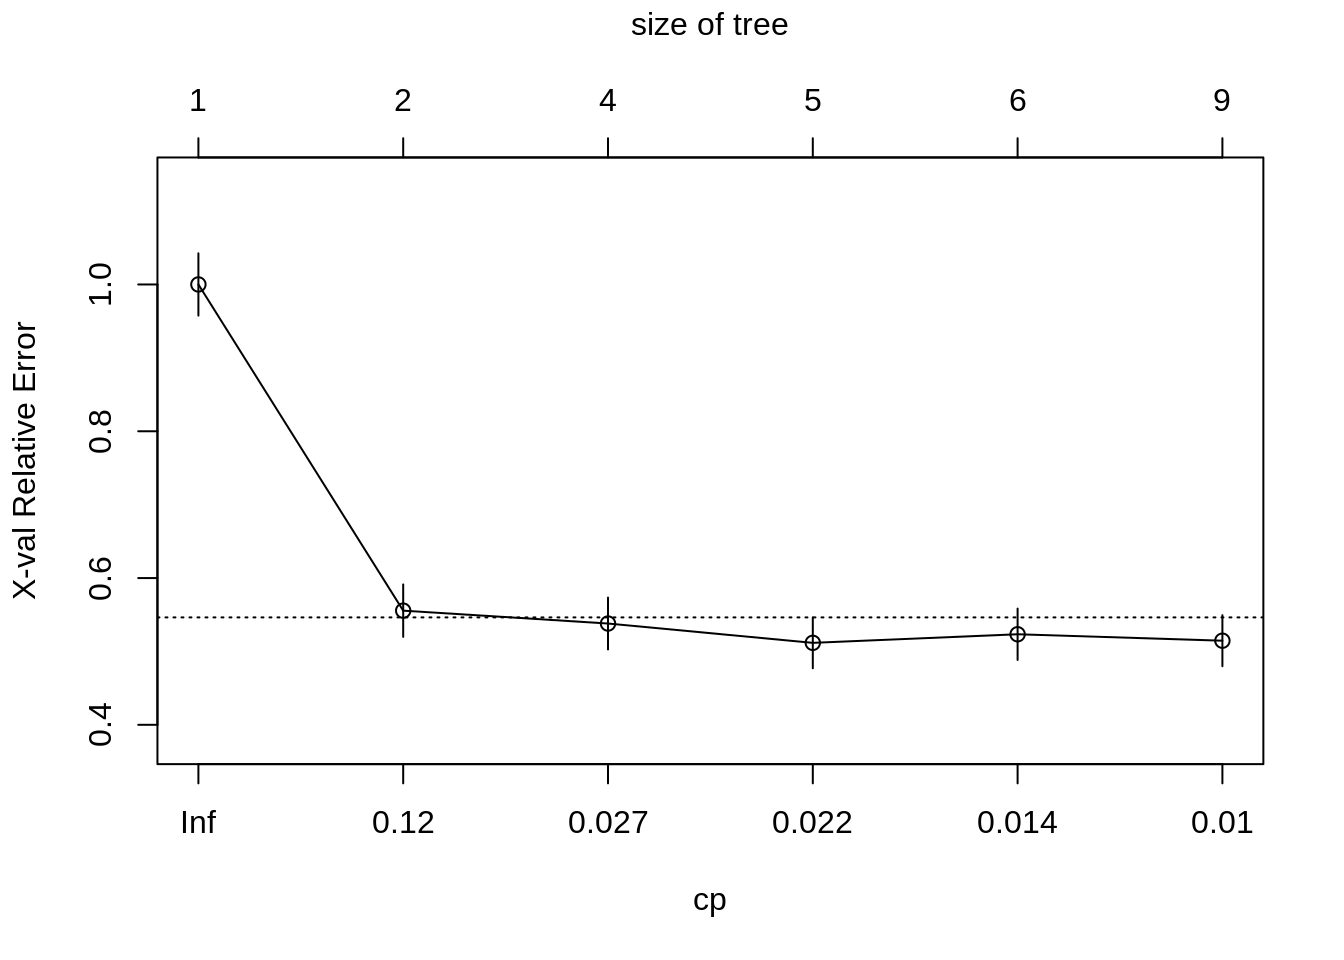
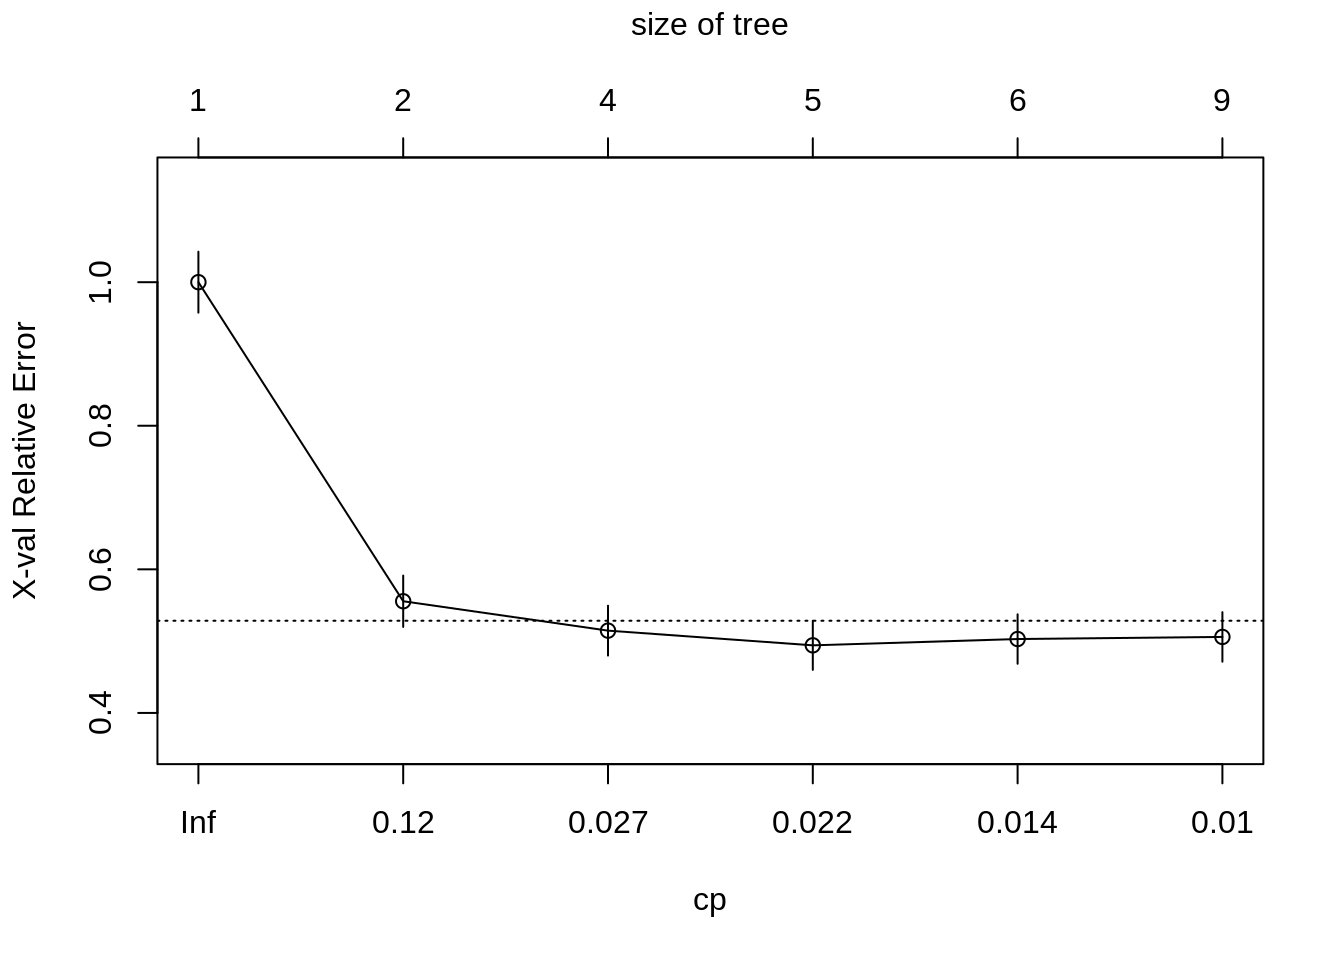
Deploy lebebr01/stat_thinking to github.com/lebebr01/stat_thinking.git:master

diff --git a/docs/classification.html b/docs/classification.html
@@ -324,10 +324,10 @@ titanic &lt;-<span class="st"> </span><span class="kw">bind_rows</span>(titanic_
 ##         CP nsplit rel error  xerror     xstd
 ## 1 0.444444      0   1.00000 1.00000 0.042446
 ## 2 0.030702      1   0.55556 0.55556 0.035750
-## 3 0.023392      3   0.49415 0.53801 0.035331
-## 4 0.020468      4   0.47076 0.51170 0.034675
-## 5 0.010234      5   0.45029 0.52339 0.034970
-## 6 0.010000      8   0.41813 0.51462 0.034749</code></pre>
+## 3 0.023392      3   0.49415 0.51462 0.034749
+## 4 0.020468      4   0.47076 0.49415 0.034217
+## 5 0.010234      5   0.45029 0.50292 0.034448
+## 6 0.010000      8   0.41813 0.50585 0.034524</code></pre>
 <div class="sourceCode"><pre class="sourceCode r"><code class="sourceCode r"><span class="kw">plotcp</span>(class_tree)</code></pre></div>
 <p><img src="05-classification_files/figure-html/unnamed-chunk-6-1.png" width="672" /></p>
 <div class="sourceCode"><pre class="sourceCode r"><code class="sourceCode r">prune_class_tree &lt;-<span class="st"> </span><span class="kw">prune</span>(class_tree, <span class="dt">cp =</span> .<span class="dv">02</span>)

diff --git a/docs/05-classification.md b/docs/05-classification.md
@@ -249,10 +249,10 @@ printcp(class_tree)
 ##         CP nsplit rel error  xerror     xstd
 ## 1 0.444444      0   1.00000 1.00000 0.042446
 ## 2 0.030702      1   0.55556 0.55556 0.035750
-## 3 0.023392      3   0.49415 0.53801 0.035331
-## 4 0.020468      4   0.47076 0.51170 0.034675
-## 5 0.010234      5   0.45029 0.52339 0.034970
-## 6 0.010000      8   0.41813 0.51462 0.034749
+## 3 0.023392      3   0.49415 0.51462 0.034749
+## 4 0.020468      4   0.47076 0.49415 0.034217
+## 5 0.010234      5   0.45029 0.50292 0.034448
+## 6 0.010000      8   0.41813 0.50585 0.034524
 ```
 
 ```r
